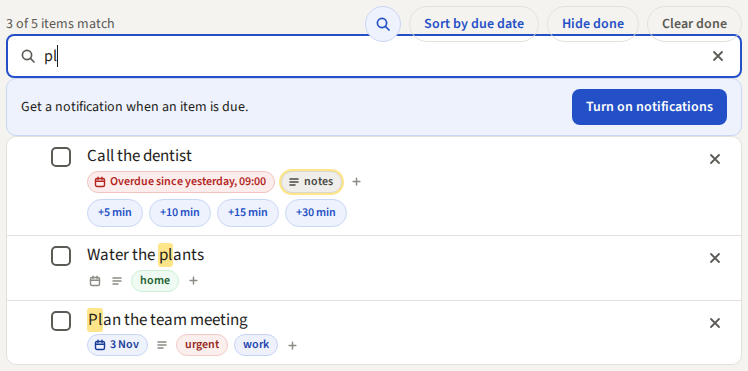
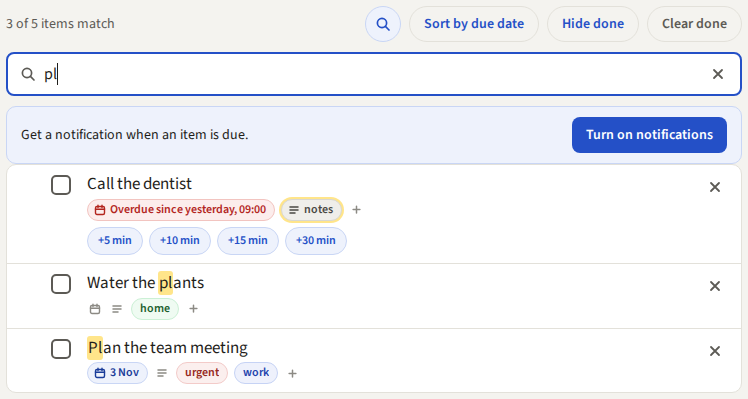
fix: the search field no longer covers the buttons above the list
The search row had a margin of -8px at the top, so the field moved up over
the bottom of the buttons above it ("Sort by hand", "Show done", "Clear
done"). In Firefox with a wider font it was easy to see. The field now has
10px above and under it, as on the canvas (page "19 · Search").

Changed region(s): [[0.0, 0.0296, 1.0, 0.9784], [0.9532, 0.6819, 0.984, 0.7412], [0.9225, 0.8598, 0.984, 0.8895]]

diff --git a/internal/web/static/app.css b/internal/web/static/app.css
@@ -740,8 +740,10 @@ main.guide { display: block; max-width: 760px; font-size: 17px; line-height: 1.5
 .filter.search-toggle { width: 36px; padding: 0; display: inline-flex; align-items: center; justify-content: center; color: var(--muted); }
 .filter.search-toggle:hover { color: var(--accent); }
 .filter.search-toggle[aria-expanded="true"] { color: var(--accent); background: #EEF2FC; border-color: #C9D6F5; }
+/* 10px above and under the field, as on the canvas (page "19 · Search");
+   the 10px under it and the 2px of the sort hint collapse to 10px. */
 .search-row {
-  display: flex; align-items: center; gap: 8px; margin: -8px 0 0;
+  display: flex; align-items: center; gap: 8px; margin: 10px 0;
   background: var(--card); border: 2px solid var(--accent); border-radius: 8px; padding: 0 4px 0 12px;
 }
 .search-row[hidden] { display: none; }

diff --git a/internal/web/repeat_test.go b/internal/web/repeat_test.go
@@ -223,3 +223,18 @@ func TestSearchMarkup(t *testing.T) {
 		t.Fatalf("want toolbar, search row, list in this order: %d %d %d", a, b, c)
 	}
 }
+
+// The open search field has 10px above and under it, as on the canvas (page
+// "19 · Search"). A negative margin moved it up over the buttons above it.
+func TestSearchRowSpace(t *testing.T) {
+	h, _ := newTestApp(t)
+	css := do(t, h, "GET", "/static/app.css", nil, nil).Body.String()
+	at := strings.Index(css, "\n.search-row {")
+	if at < 0 {
+		t.Fatal("no .search-row rule in app.css")
+	}
+	rule := css[at : at+strings.Index(css[at:], "}")]
+	if !strings.Contains(rule, "margin: 10px 0;") || strings.Contains(rule, "margin: -") {
+		t.Fatalf("want margin: 10px 0 and no negative margin:\n%s", rule)
+	}
+}
